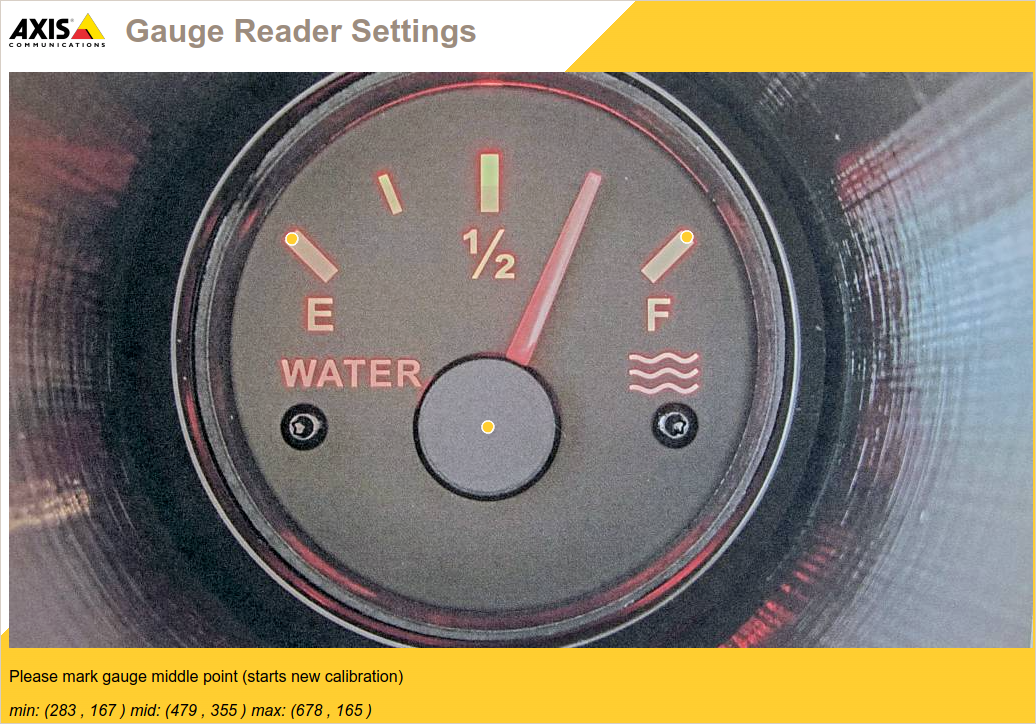
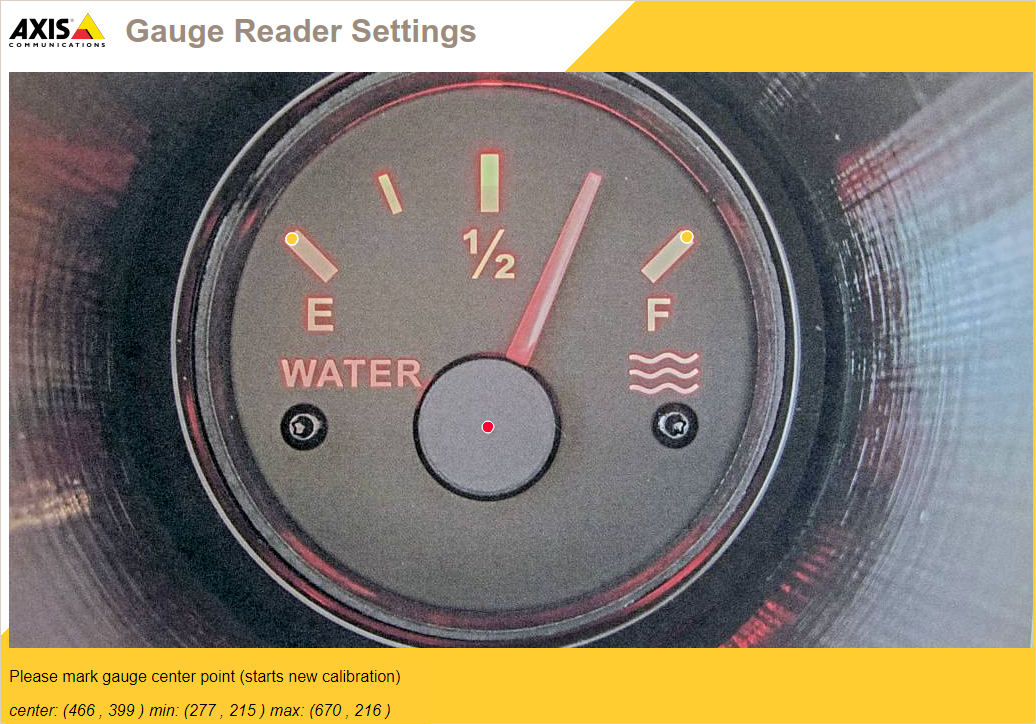
Improve UX by changing mid point to center point (#21)
The mid point name has proved to be confusing and is now changed to
center point to more clearly indicate that it is the center of the
gauge's clock face.

Changed region(s): [[0.0, 0.9116, 0.4015, 0.942], [0.0, 0.9724, 0.3707, 1.0], [0.4633, 0.5773, 0.4942, 0.6077]]

diff --git a/html/js/opcuagaugereader.js b/html/js/opcuagaugereader.js
@@ -2,8 +2,8 @@ const w = 1024;
 const h = 576;
 const msize = 6;
 const State = {
-	Beg: Symbol(0),
-	Mid: Symbol(1),
+	Begin: Symbol(0),
+	Center: Symbol(1),
 	Min: Symbol(2),
 	Max: Symbol(3)
 }
@@ -11,45 +11,45 @@ const parambaseurl = '/axis-cgi/param.cgi?action=';
 const paramgeturl = parambaseurl + 'list&group=opcuagaugereader.';
 const paramseturl = parambaseurl + 'update&opcuagaugereader.';
 var points = {};
-points['maxX'] = 0;
-points['maxY'] = 0;
-points['midX'] = 0;
-points['midY'] = 0;
+points['centerX'] = 0;
+points['centerY'] = 0;
 points['minX'] = 0;
 points['minY'] = 0;
+points['maxX'] = 0;
+points['maxY'] = 0;
 
 function getPointText(param) {
 	return param + ': (' + points[param + 'X'] + ', ' + points[param + 'Y'] + ')';
 }
 
-function drawMarker(X, Y) {
+function drawMarker(X, Y, color) {
 	ctx.beginPath();
-	ctx.fillStyle = '#ffcc33';
+	ctx.fillStyle = color;
 	ctx.strokeStyle = 'white';
 	ctx.arc(X, Y, msize, 0, 2 * Math.PI, false);
 	ctx.fill();
 	ctx.arc(X, Y, msize, 1, 2 * Math.PI, false);
 	ctx.stroke();
 	document.getElementById("values").textContent =
-		getPointText('min') + ' ' + getPointText('mid') + ' ' + getPointText('max');
+		getPointText('center') + ' ' + getPointText('min') + ' ' + getPointText('max');
 }
 
-function drawMax() {
-	drawMarker(points['maxX'], points['maxY']);
-}
-
-function drawMid() {
-	drawMarker(points['midX'], points['midY']);
+function drawCenter() {
+	drawMarker(points['centerX'], points['centerY'], '#ff0033');
 }
 
 function drawMin() {
-	drawMarker(points['minX'], points['minY']);
+	drawMarker(points['minX'], points['minY'], '#ffcc33');
+}
+
+function drawMax() {
+	drawMarker(points['maxX'], points['maxY'], '#ffcc33');
 }
 
 function drawDefaultPoints() {
 	ctx.clearRect(0, 0, draw.width, draw.height);
 	drawMax();
-	drawMid();
+	drawCenter();
 	drawMin();
 }
 
@@ -77,21 +77,21 @@ function setParam(param, value) {
 }
 
 function initWithCurrentValues() {
-	getCurrentValue('midX');
-	getCurrentValue('midY');
-	getCurrentValue('maxX');
-	getCurrentValue('maxY');
+	getCurrentValue('centerX');
+	getCurrentValue('centerY');
 	getCurrentValue('minX');
 	getCurrentValue('minY');
+	getCurrentValue('maxX');
+	getCurrentValue('maxY');
 }
 
 function handleCoord(X, Y) {
 	switch (curState) {
-		case State.Mid:
-			setParam('midX', X);
-			setParam('midY', Y);
+		case State.Center:
+			setParam('centerX', X);
+			setParam('centerY', Y);
 			ctx.clearRect(0, 0, draw.width, draw.height);
-			drawMid();
+			drawCenter();
 			curState = State.Min;
 			infoTxt.innerHTML = 'Please mark gauge minimum point';
 			break;
@@ -107,8 +107,8 @@ function handleCoord(X, Y) {
 			setParam('maxY', Y);
 			drawMax();
 		default:
-			curState = State.Mid;
-			infoTxt.innerHTML = 'Please mark gauge middle point (starts new calibration)';
+			curState = State.Center;
+			infoTxt.innerHTML = 'Please mark gauge center point (starts new calibration)';
 			break;
 	}
 }
@@ -123,7 +123,7 @@ function handleMouseClick(event) {
 }
 
 document.addEventListener('click', handleMouseClick);
-var curState = State.Beg;
+var curState = State.Begin;
 var preview = document.getElementById('preview');
 var draw = document.getElementById('draw');
 var infoTxt = document.getElementById('info');

diff --git a/src/opcuagaugereader.cpp b/src/opcuagaugereader.cpp
@@ -34,9 +34,9 @@ using namespace std;
 static mutex mtx;
 
 static bool clockwise;
-static Point max_point;
-static Point mid_point;
+static Point center_point;
 static Point min_point;
+static Point max_point;
 static Gauge *gauge = nullptr;
 static OpcUaServer opcuaserver;
 
@@ -96,21 +96,13 @@ static void update_local_param(const gchar &name, const uint32_t val)
     {
         clockwise = (1 == val);
     }
-    else if (0 == strncmp("maxX", &name, 4))
+    else if (0 == strncmp("centerX", &name, 4))
     {
-        max_point.x = val;
+        center_point.x = val;
     }
-    else if (0 == strncmp("maxY", &name, 4))
+    else if (0 == strncmp("centerY", &name, 4))
     {
-        max_point.y = val;
-    }
-    else if (0 == strncmp("midX", &name, 4))
-    {
-        mid_point.x = val;
-    }
-    else if (0 == strncmp("midY", &name, 4))
-    {
-        mid_point.y = val;
+        center_point.y = val;
     }
     else if (0 == strncmp("minX", &name, 4))
     {
@@ -119,6 +111,14 @@ static void update_local_param(const gchar &name, const uint32_t val)
     else if (0 == strncmp("minY", &name, 4))
     {
         min_point.y = val;
+    }
+    else if (0 == strncmp("maxX", &name, 4))
+    {
+        max_point.x = val;
+    }
+    else if (0 == strncmp("maxY", &name, 4))
+    {
+        max_point.y = val;
     }
     else
     {
@@ -209,7 +209,7 @@ static gboolean imageanalysis(gpointer data)
     if (nullptr == gauge)
     {
         LOG_I("%s/%s: Set up new gauge", __FILE__, __FUNCTION__);
-        gauge = new Gauge(gray_mat, min_point, mid_point, max_point, clockwise);
+        gauge = new Gauge(gray_mat, center_point, min_point, max_point, clockwise);
     }
     assert(nullptr != gauge);
     double value = gauge->ComputeGaugeValue(gray_mat);
@@ -302,21 +302,21 @@ int main(int argc, char *argv[])
     // clang-format off
     if (!setup_param(*axparameter, "clockwise", param_callback) ||
         !setup_param(*axparameter, "port", param_callback) ||
-        !setup_param(*axparameter, "maxX", param_callback) ||
-        !setup_param(*axparameter, "maxY", param_callback) ||
-	!setup_param(*axparameter, "midX", param_callback) ||
-        !setup_param(*axparameter, "midY", param_callback) ||
-	!setup_param(*axparameter, "minX", param_callback) ||
-        !setup_param(*axparameter, "minY", param_callback))
+	!setup_param(*axparameter, "centerX", param_callback) ||
+        !setup_param(*axparameter, "centerY", param_callback) ||
+        !setup_param(*axparameter, "minX", param_callback) ||
+        !setup_param(*axparameter, "minY", param_callback) ||
+	!setup_param(*axparameter, "maxX", param_callback) ||
+        !setup_param(*axparameter, "maxY", param_callback))
     // clang-format on
     {
         ax_parameter_free(axparameter);
         return EXIT_FAILURE;
     }
     // Log retrieved param values
-    LOG_I("%s/%s: max: (%u, %u)", __FILE__, __FUNCTION__, max_point.x, max_point.y);
-    LOG_I("%s/%s: mid: (%u, %u)", __FILE__, __FUNCTION__, mid_point.x, mid_point.y);
+    LOG_I("%s/%s: center: (%u, %u)", __FILE__, __FUNCTION__, center_point.x, center_point.y);
     LOG_I("%s/%s: min: (%u, %u)", __FILE__, __FUNCTION__, min_point.x, min_point.y);
+    LOG_I("%s/%s: max: (%u, %u)", __FILE__, __FUNCTION__, max_point.x, max_point.y);
 
     // Initialize image analysis
     if (!initimageanalysis())

diff --git a/include/gauge.hpp b/include/gauge.hpp
@@ -24,8 +24,8 @@ class Gauge
   public:
     Gauge(
         const cv::Mat &img,
-        const cv::Point &point_min,
         const cv::Point &point_center,
+        const cv::Point &point_min,
         const cv::Point &point_max,
         const bool clockwise = true);
     ~Gauge();
@@ -37,8 +37,8 @@ class Gauge
     cv::Mat global_mask;
     cv::Mat small_mask;
     cv::Point point_center;
-    cv::Point point_max;
     cv::Point point_min;
+    cv::Point point_max;
     cv::Range croprange_x;
     cv::Range croprange_y;
     cv::Size img_size;

diff --git a/src/gauge.cpp b/src/gauge.cpp
@@ -36,8 +36,8 @@ using namespace std;
 
 Gauge::Gauge(
     const Mat &img,
-    const Point &point_min,
     const Point &point_center,
+    const Point &point_min,
     const Point &point_max,
     const bool clockwise)
     : clockwise(clockwise), img_size(img.size())

diff --git a/README.md b/README.md
@@ -138,11 +138,11 @@ curl -k --anyauth -u root:<password> \
 will list the current settings:
 
 ```sh
+root.Opcuagaugereader.centerX=479
+root.Opcuagaugereader.centerY=355
 root.Opcuagaugereader.clockwise=1
 root.Opcuagaugereader.maxX=678
 root.Opcuagaugereader.maxY=165
-root.Opcuagaugereader.midX=479
-root.Opcuagaugereader.midY=355
 root.Opcuagaugereader.minX=283
 root.Opcuagaugereader.minY=167
 root.Opcuagaugereader.port=4840
